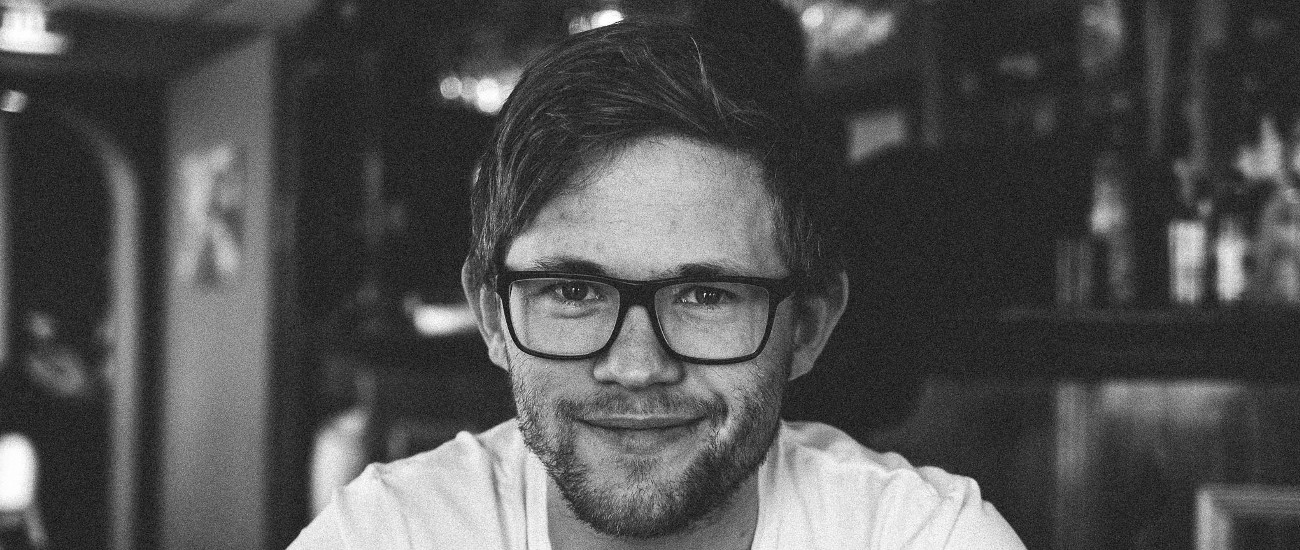
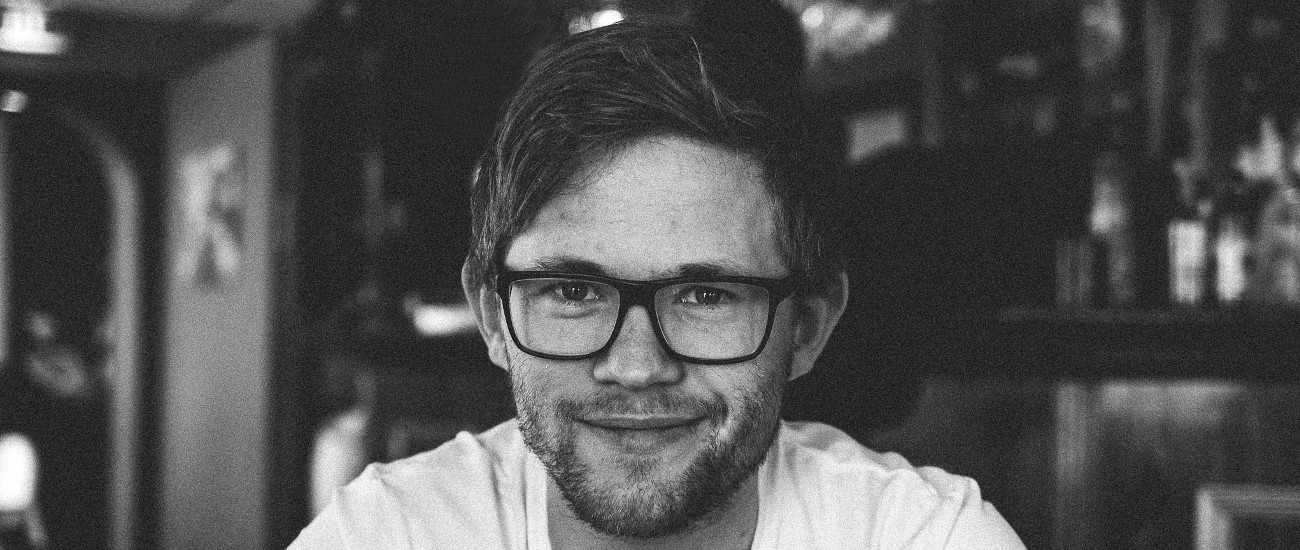
Better code view and color visual tweaks
- Smaller and darker images of me

Changed region(s): [[0.3385, 0.0309, 0.4308, 0.2164], [0.4, 0.68, 0.4308, 0.8036]]

diff --git a/public/sass/thorsen.scss b/public/sass/thorsen.scss
@@ -1,4 +1,4 @@
-$backgroundColor: #fff;
+$backgroundColor: darken(#fff, 3%);
 $fontFamily: 'Helvetica Neue', Helvetica, Arial, sans-serif;
 $fontColor: #222;
 $linkColor: #458;
@@ -119,9 +119,9 @@ div.alert { background: #fed; color: #851; border: 1px solid #edb; }
 div.info { background: #def; color: #158; border: 1px solid #bde; }
 
 div.navbar {
-  background: #fff;
+  background: $backgroundColor;
   margin-bottom: 10px;
-  border-bottom: 1px dotted #aaa;
+  border-bottom: 1px solid darken(#fff, 10%);
   overflow: hidden;
 
   a, span { color: #555; }
@@ -209,7 +209,7 @@ header {
   margin-bottom: 0;
   position: relative;
 
-  a { color: #444; }
+  a { font-family: "Lato", sans-serif; color: #444; }
   a { text-decoration: none; }
   a:hover { text-decoration: underline; }
 
@@ -222,6 +222,7 @@ header {
     a, a:active, a:hover { color: #fff; }
   }
   p {
+    text-shadow: 0px 0px 2px #000;
     text-align: right;
     font-style: italic;
     font-size: 0.9em;
@@ -231,6 +232,7 @@ header {
     overflow: hidden;
     position: relative;
     top: -($bodyGutter * 2 + 7);
+    border-bottom: 1px solid #bbb;
     @include opacity(0.9);
 
     ul {
@@ -238,6 +240,7 @@ header {
       list-style: none;
     }
     a {
+      font-weight: bold;
       padding: $bodyGutter / 2;
       display: block;
       float: left;
@@ -290,9 +293,9 @@ footer {
 pre.prettyprint {
   background: url(../image/pinstripe-light.gif);
   color: #4d4d4c;
+  border: 1px solid darken(#fff, 10%);
   font: 0.9em Consolas, Menlo, Monaco, Courier, monospace;
   line-height: 1.5em;
-  border: 1px solid #e1e1e1;
   padding: 8px;
   white-space: pre-wrap;
 }
